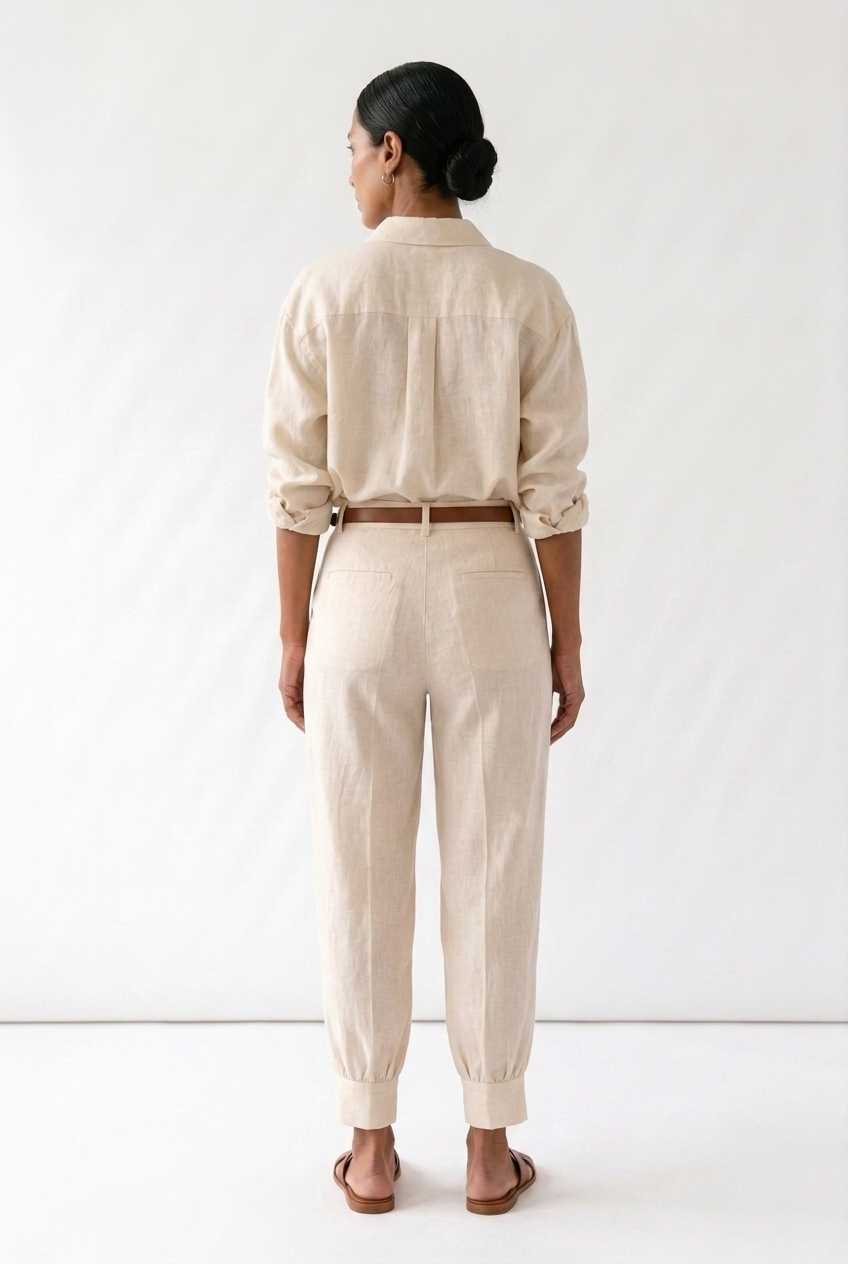
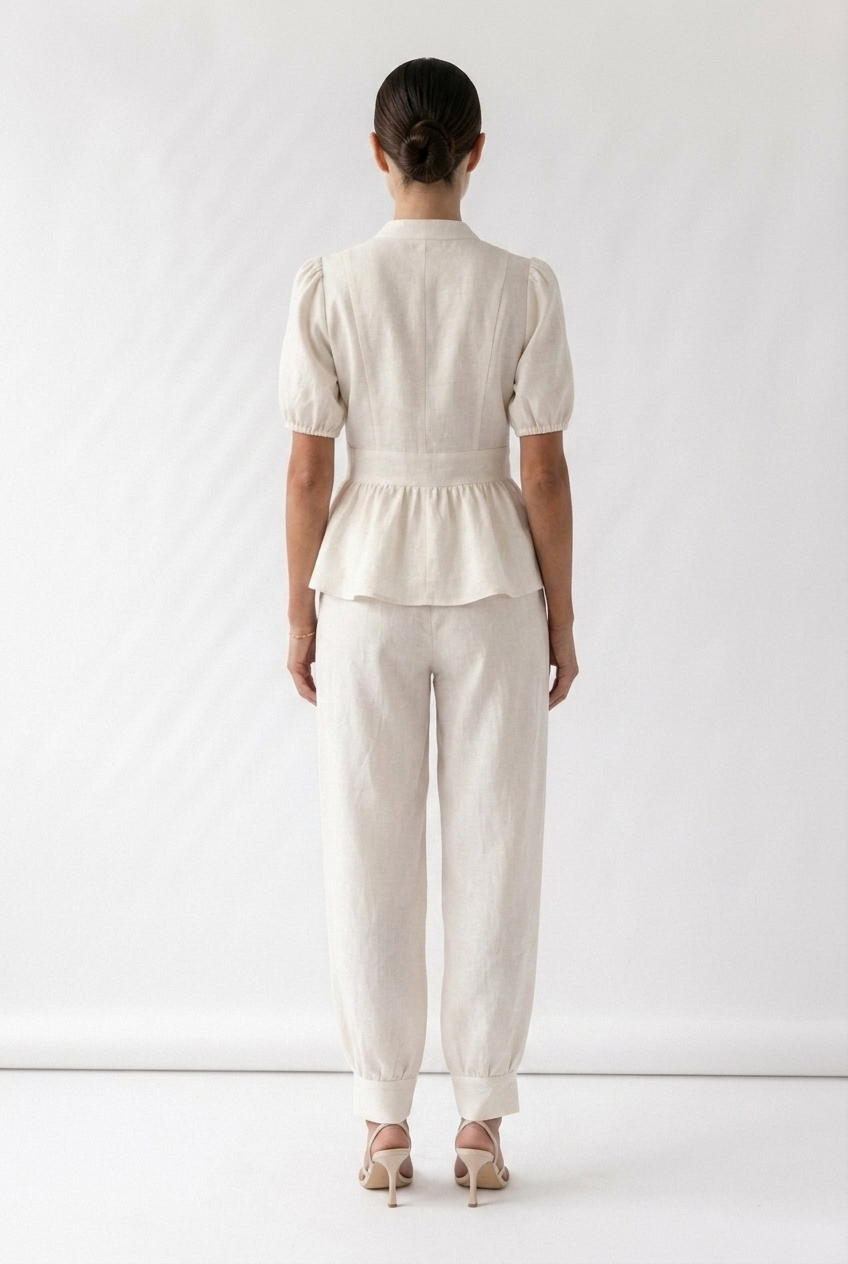
Redesign Banded Trousers: tailored straight-slightly-wide leg, not jogger-style
Replaced the tapered jogger-esque design with a more sophisticated
silhouette -- structured pleated waistband, straight leg with slight
width, tailored flat cuffed ankle band (not ribbed/elasticated).
Added White/Navy/Burgundy color variants with distinct poses.

Also introduces a second brand persona (European brunette) alongside
the original Arabic-presenting persona, per direct founder preference
after comparing both side by side.

Changed region(s): [[0.0, 0.0309, 1.0, 0.9873]]

diff --git a/website/src/data/catalog.ts b/website/src/data/catalog.ts
@@ -93,13 +93,16 @@ export const catalog: CatalogItem[] = [
     name: "Banded Trousers",
     category: "Pants",
     price: 350,
-    descriptor: "Tapered, cuffed hem",
+    descriptor: "Tailored, cuffed hem",
     badge: "NEW",
     gradient: ["#f0ece4", "#e2ddd4"],
     image: "/catalog/banded-trousers-ivory-front.png",
     backImage: "/catalog/banded-trousers-ivory-back.png",
     colorImages: {
       Ivory: { front: "/catalog/banded-trousers-ivory-front.png", back: "/catalog/banded-trousers-ivory-back.png" },
+      White: { front: "/catalog/banded-trousers-white-front.png", back: "/catalog/banded-trousers-white-back.png" },
+      Navy: { front: "/catalog/banded-trousers-navy-front.png", back: "/catalog/banded-trousers-navy-back.png" },
+      Burgundy: { front: "/catalog/banded-trousers-burgundy-front.png", back: "/catalog/banded-trousers-burgundy-back.png" },
     },
   },
   {
